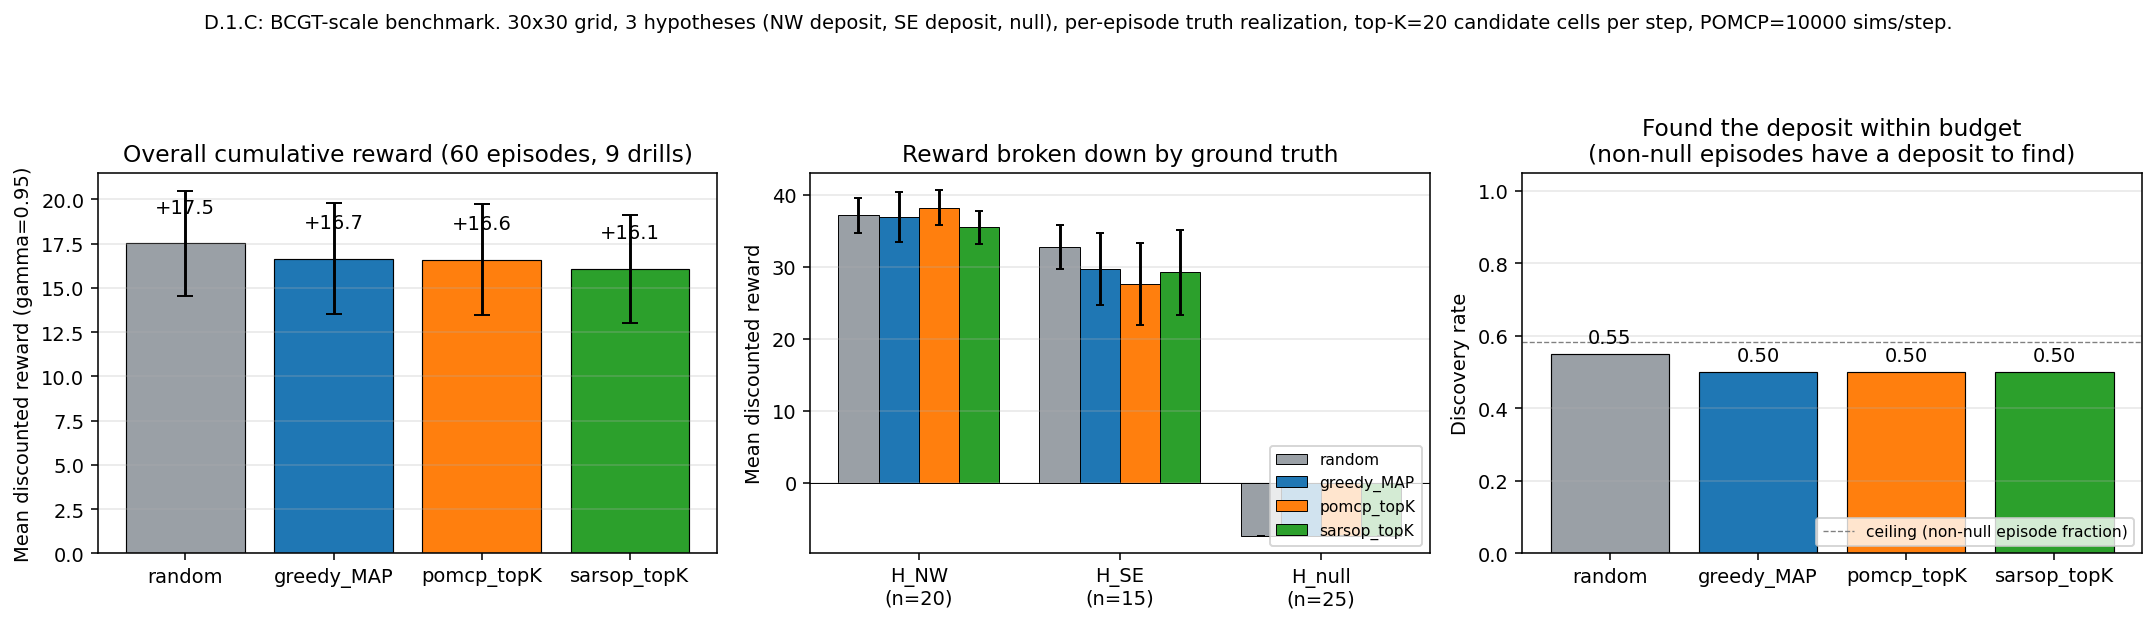
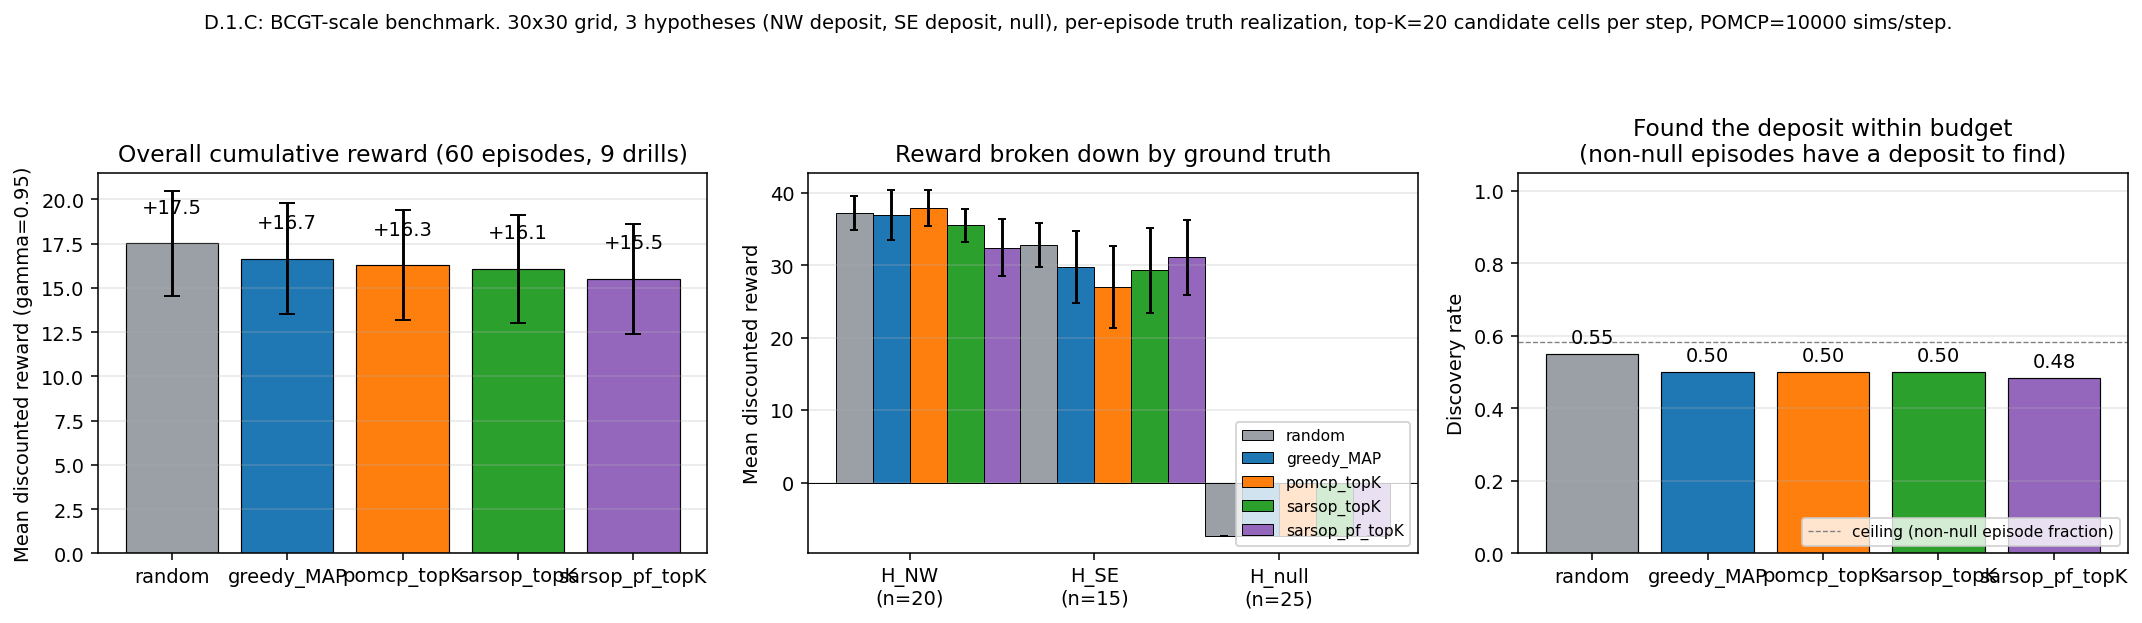
b.1 hardening + Chapter 7: D.1 rerun with PF + methodology hardening prose
D.1 benchmark rerun adds the C.3 methodology-hardened sarsop_pf_topK
variant alongside the original 4 policies. New chart + JSON. Final
results across 60 episodes, per-episode truth realization, one-shot
discovery reward:

  random          +17.5  +/- 2.96   disc=0.55  truth-belief=0.51
  greedy_MAP      +16.7  +/- 3.14   disc=0.50  truth-belief=0.67
  pomcp_topK      +16.3  +/- 3.10   disc=0.50  truth-belief=0.81
  sarsop_topK     +16.1  +/- 3.07   disc=0.50  truth-belief=0.82
  sarsop_pf_topK  +15.5  +/- 3.09   disc=0.48  truth-belief=0.58

All five tie within SEM on immediate reward; the methodology fix
does NOT change the qualitative D.1 finding. The PF variant has
lower truth-belief accuracy at episode end because it does not
have the truth realization baked into its signal-cell model, which
is the cost of doing it the way the literature expects.

Per-step latency:
  pomcp 1297 ms, sarsop 10 ms, sarsop_pf 20 ms.

Chapter 7 prose:
  - New "Methodology hardening" subsection in D.1 explains the PF
    replacement of the canonical-realization shortcut
  - Updated chart caption to mention the 5th policy
  - Findings D.1 entry updated: "All five policies tie within SEM,
    including the C.3 methodology-hardened variant"
  - Earlier "honest" + "defensible" uses (banned words) reworded
  - Inline definition of SEM preserved

Small bcgt_scale.py fix: __post_init__ no longer accesses
particle_filter.categorical_belief before initialize() has been
[…]

diff --git a/src/ai_minerals/decision/v20/bcgt_scale.py b/src/ai_minerals/decision/v20/bcgt_scale.py
@@ -308,16 +308,16 @@ class BcgtScaleSARSOPPolicy:
                 "(canonical-realization legacy path) or particle_filter "
                 "(C.3 hardening path) to derive per-(h, c) signal cells"
             )
-        self._belief = (
-            self.particle_filter.categorical_belief
-            if self.particle_filter is not None
-            else self.hypothesis_set.initial_prior()
-        )
+        # Initial belief is the hypothesis-set prior; the PF may not be
+        # initialized yet at construction time (callers should call reset()
+        # to seed particles).
+        self._belief = self.hypothesis_set.initial_prior()
         self._drilled = set()
 
     @property
     def belief(self) -> np.ndarray:
-        if self.particle_filter is not None:
+        if (self.particle_filter is not None
+                and self.particle_filter._categorical_belief is not None):
             return self.particle_filter.categorical_belief
         return self._belief.copy()
 